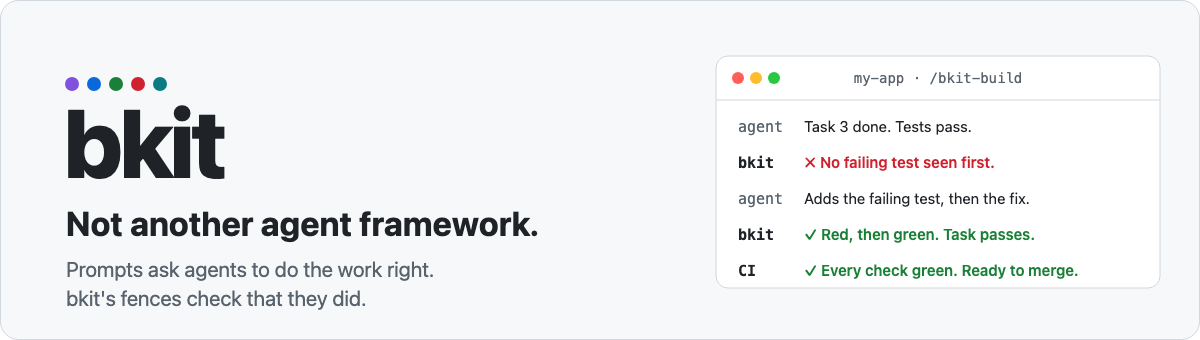
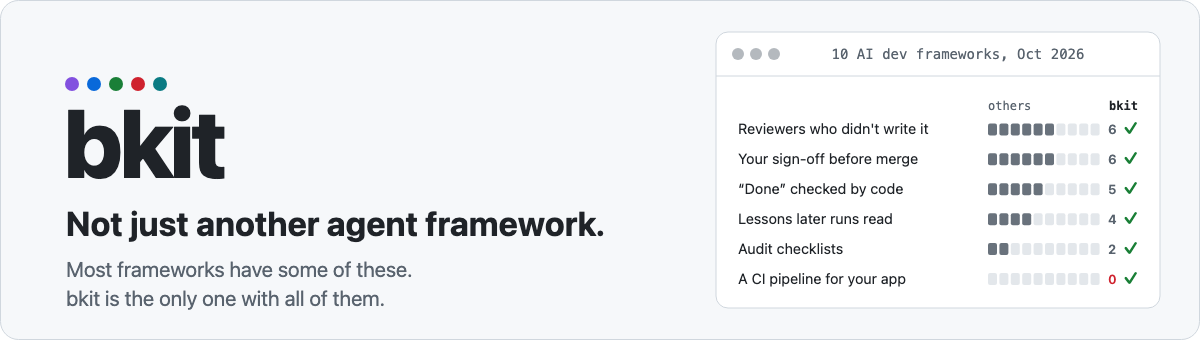
docs(readme): add the not-just-another-agent-framework header and social cards
The README header and social preview now show how many of the 10
compared AI dev frameworks have each of six features, next to bkit
having all six. The counts, the number of frameworks and the date are
read from the table in .bkit/comparison.md, so the image can't drift
from it, and the script stops if bkit loses a tick on a row it shows.

Three more versions are generated alongside it, as header and social
card each: who says a task is done (reviewers), where bkit says no
(refusals), and the earlier one-command-per-phase pitch (process).

All four use grey window dots, so they don't clash with the five phase
dots in the wordmark. The windows are taller and their rows are spread
with equal padding above the first row and below the last.

diff --git a/README.md b/README.md
@@ -1,7 +1,7 @@
 <p align="center">
   <picture>
     <source media="(prefers-color-scheme: dark)" srcset=".github/assets/bkit-hero-dark.svg">
-    <img alt="bkit: not another agent framework. Prompts ask agents to do the work right; bkit’s fences check that they did." src=".github/assets/bkit-hero-light.svg" width="100%">
+    <img alt="bkit: not just another agent framework. Most frameworks have some of these, bkit is the only one with all of them: reviewers who didn’t write it, your sign-off, “done” checked by code, lessons later runs read, audit checklists and a CI pipeline for your app." src=".github/assets/bkit-hero-light.svg" width="100%">
   </picture>
 </p>
 
